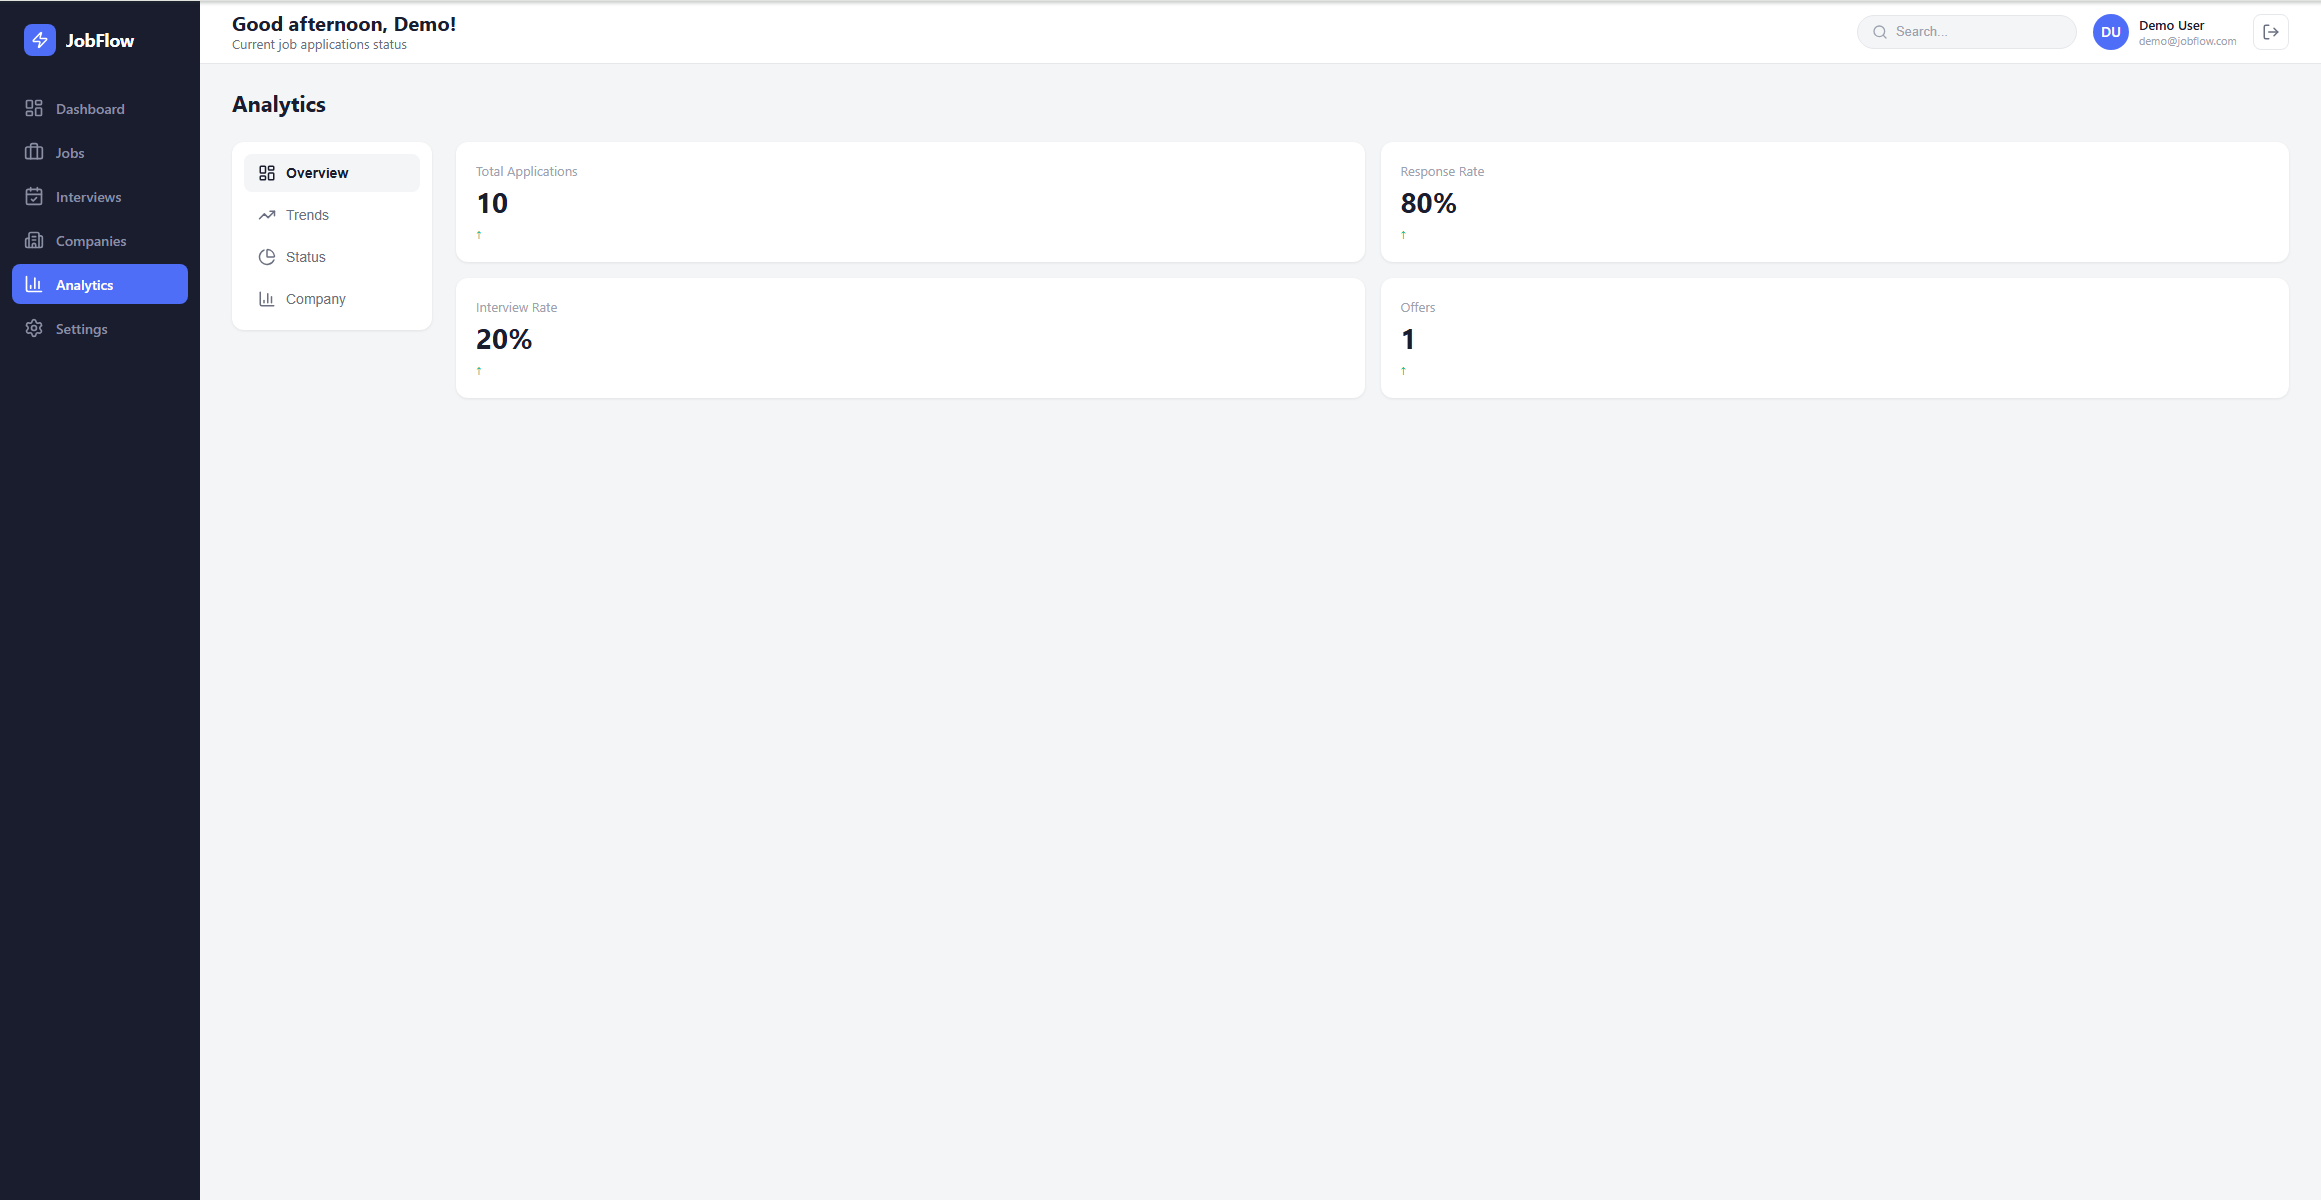
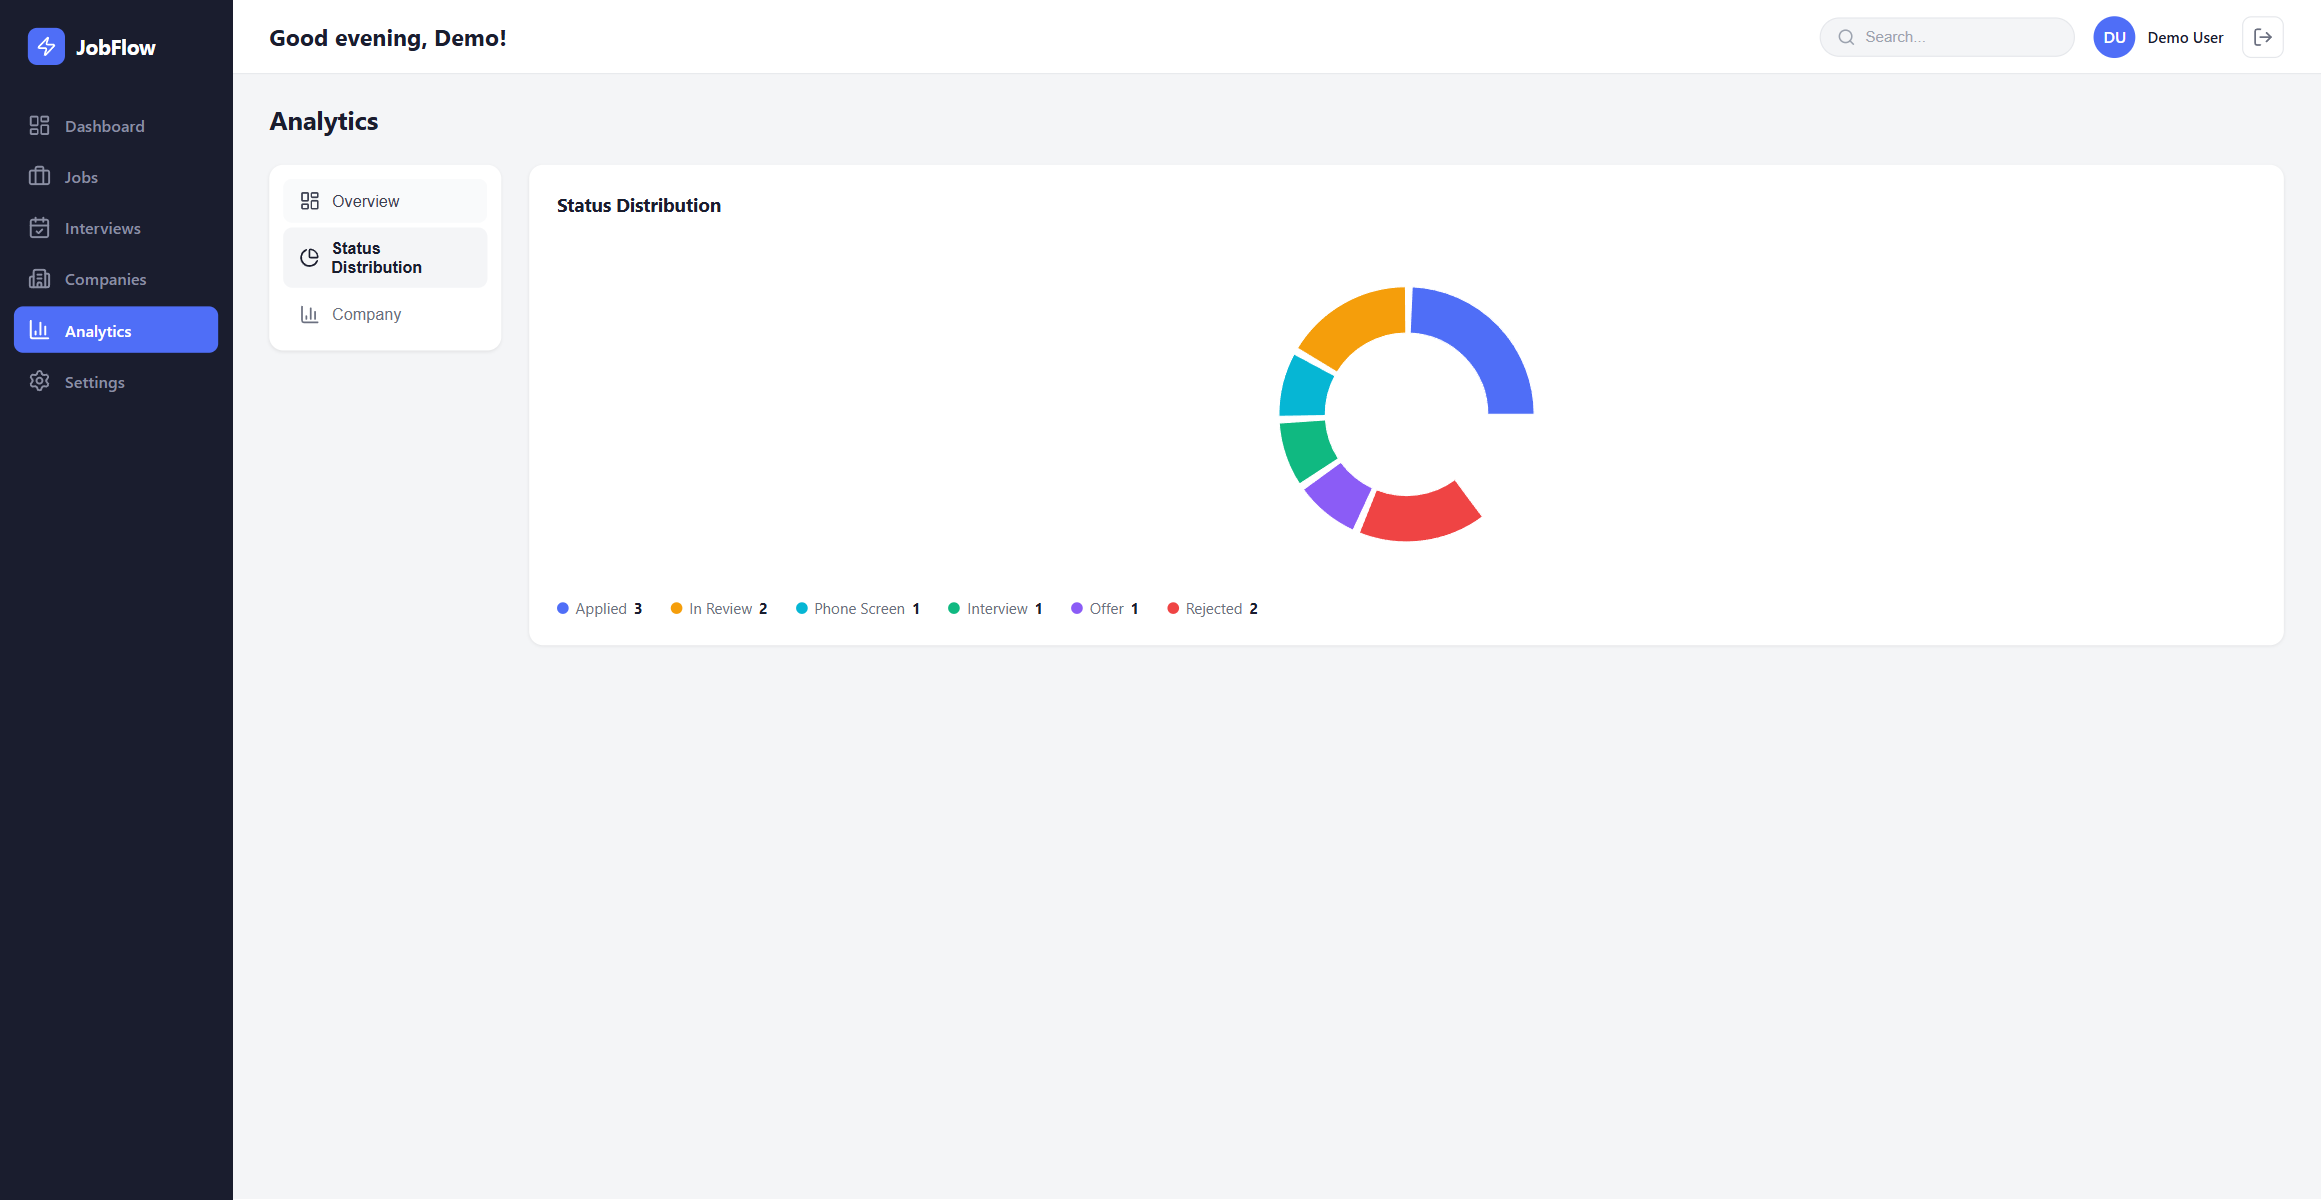
Retake the README screenshots and add a dark mode one
The old ones were from mid-September and still showed the LinkedIn button,
the removed Trends tab, and Settings without language or time zone. These
are taken in demo mode at the same 2321x1200 size.

diff --git a/README.md b/README.md
@@ -26,6 +26,10 @@ A full-stack job application tracker with JWT + OAuth2 authentication, Kanban pi
     <td align="center"><strong>Analytics</strong><br><a href="docs/analytics.png"><img src="docs/analytics.png" alt="Analytics" width="400"></a></td>
     <td align="center"><strong>Settings</strong><br><a href="docs/settings.png"><img src="docs/settings.png" alt="Settings" width="400"></a></td>
   </tr>
+  <tr>
+    <td align="center"><strong>Dark Mode</strong><br><a href="docs/dashboard-dark.png"><img src="docs/dashboard-dark.png" alt="Dashboard in dark mode" width="400"></a></td>
+    <td></td>
+  </tr>
 </table>
 
 > *Click any screenshot to view full resolution.*
